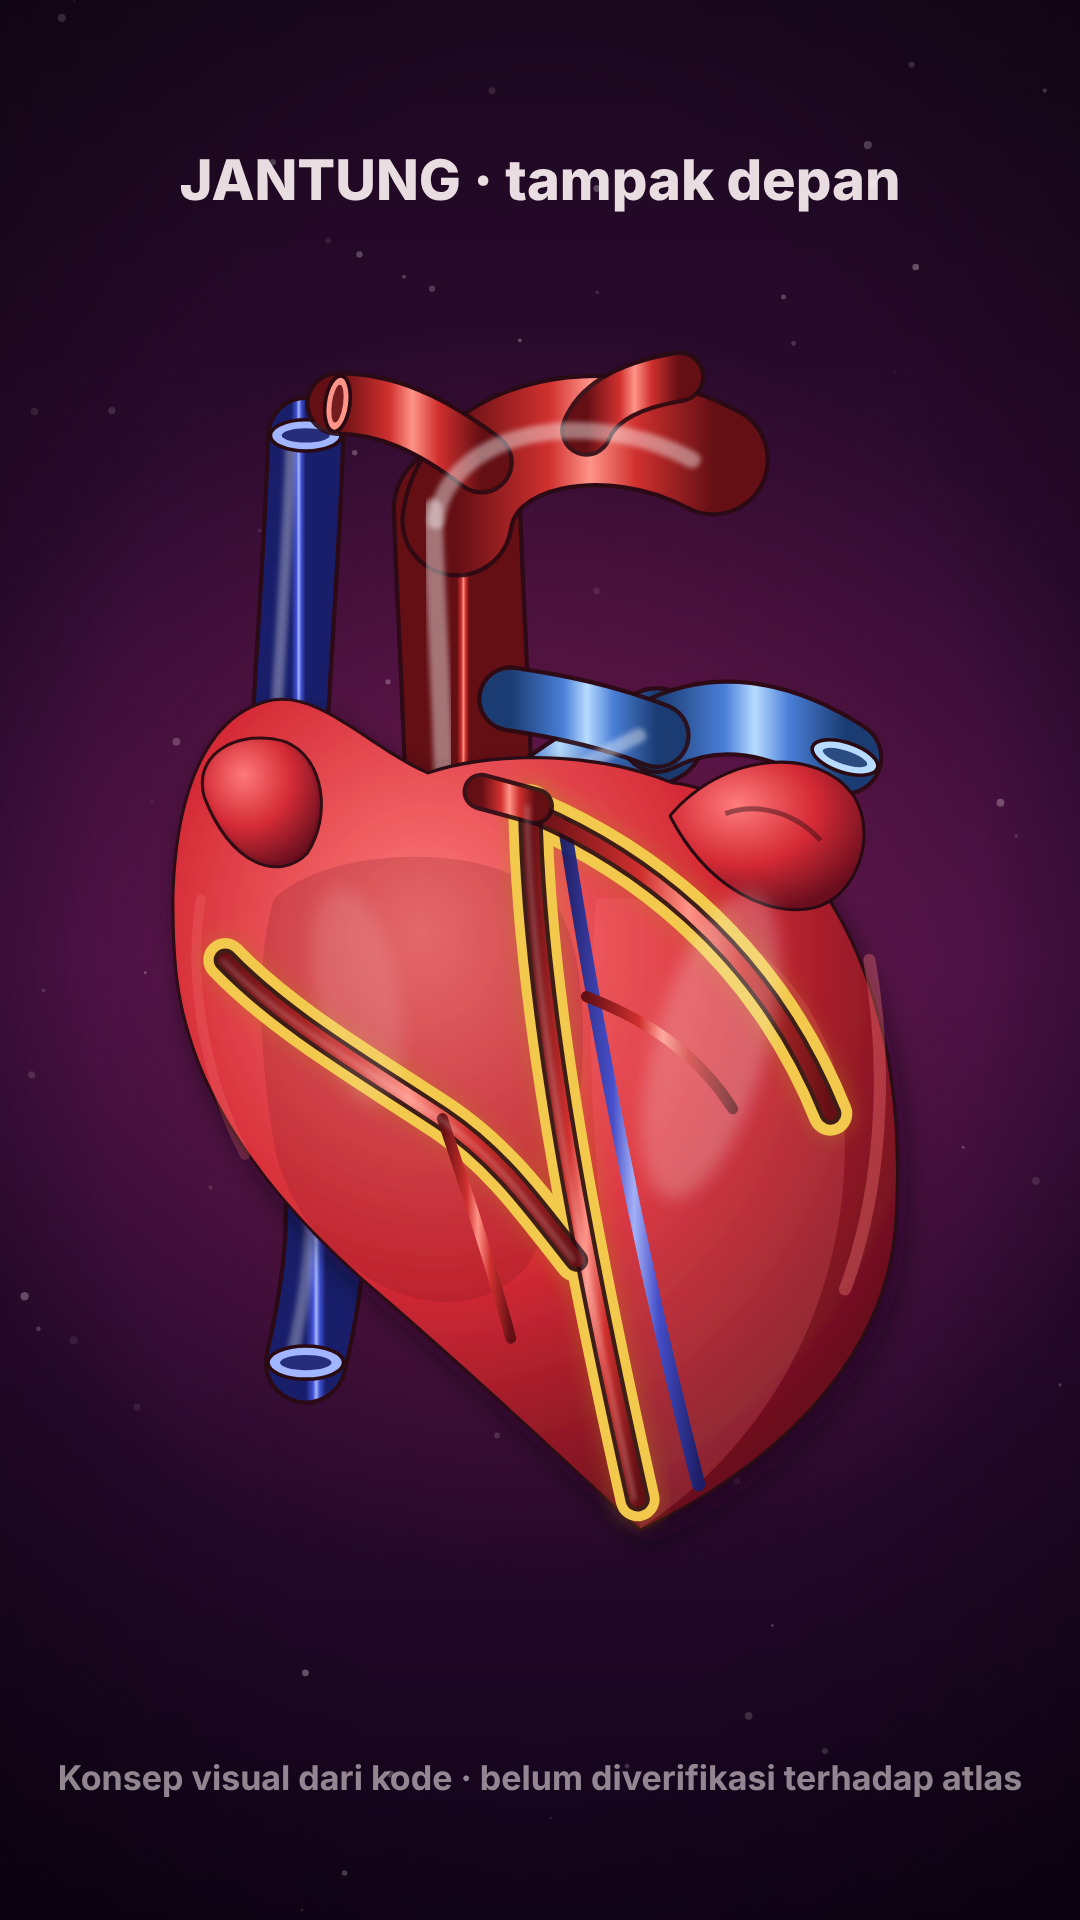
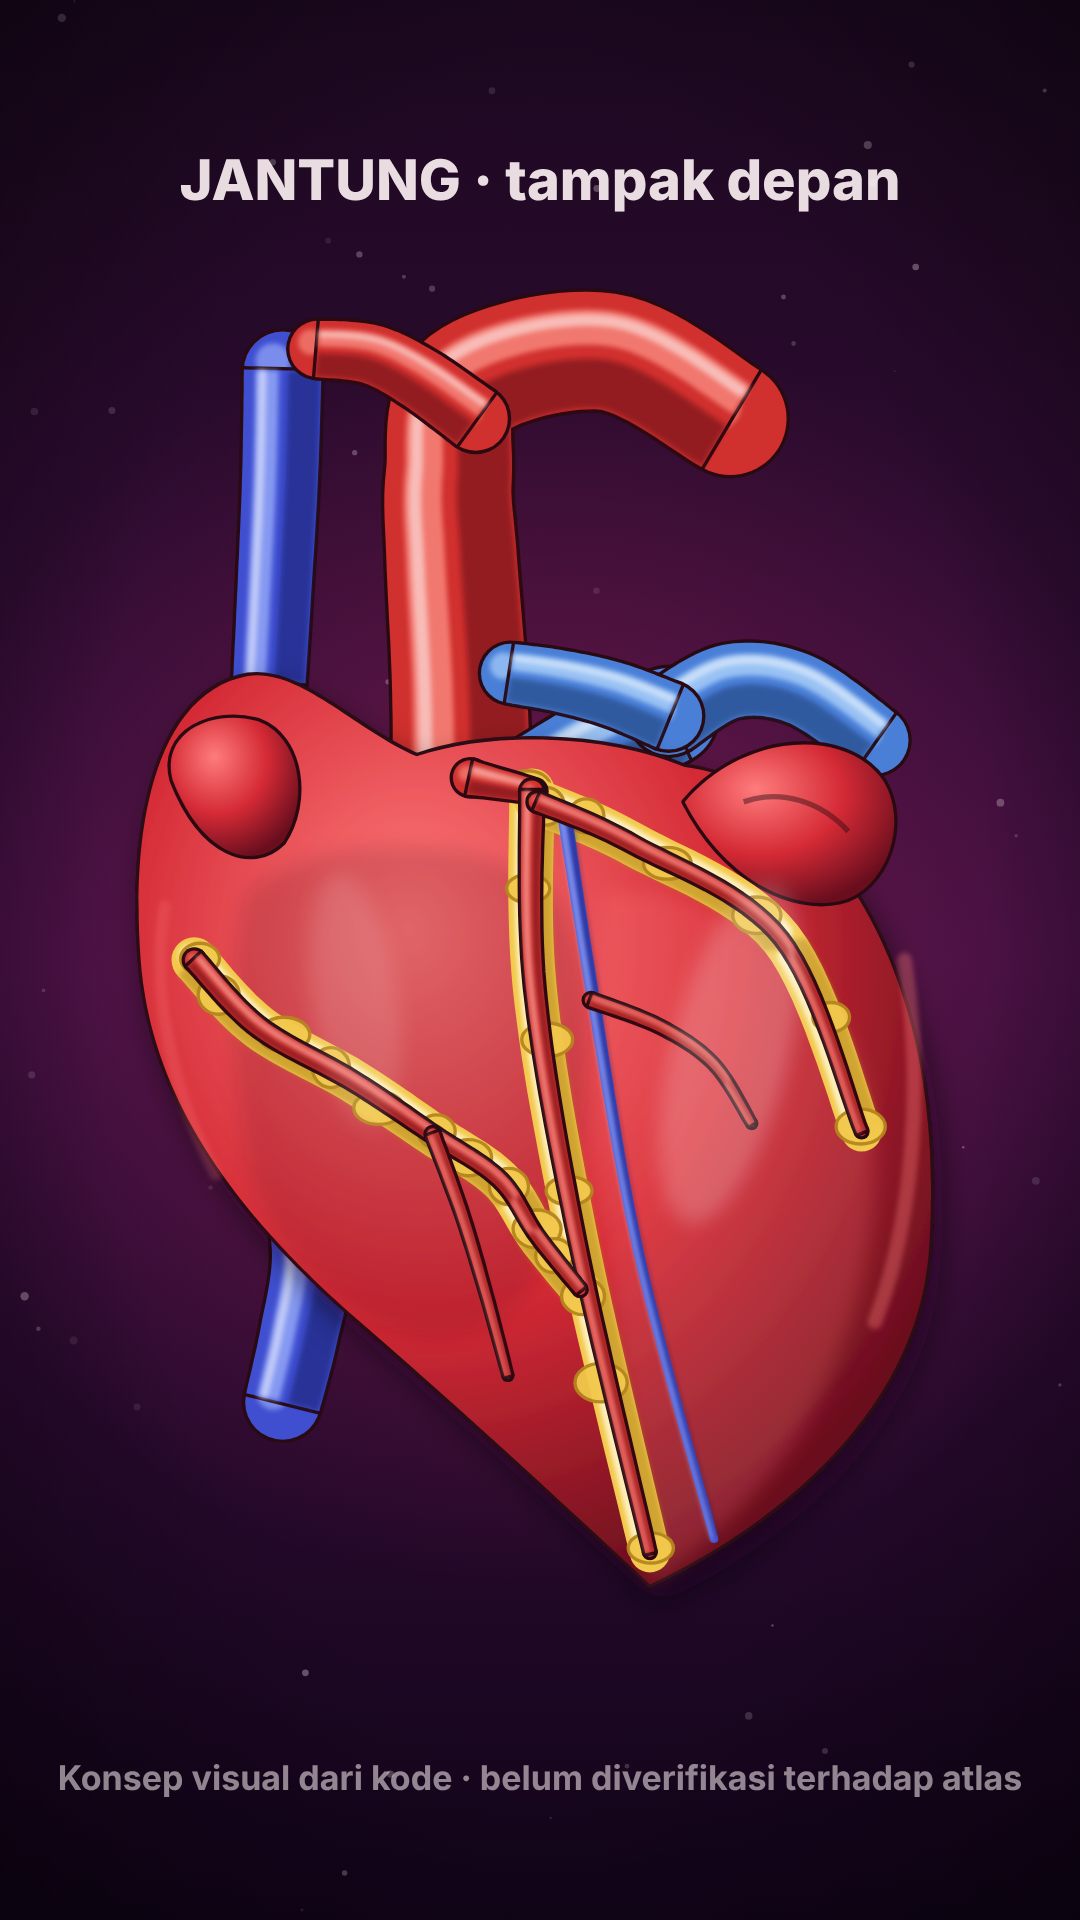
Jantung v4: pembuluh sebagai pita meruncing dengan volume, ujung membulat, jantung lebih besar; README dengan catatan evaluasi
Claude-Session: https://claude.ai/code/session_01MKx1UyJYZiX8AAtpyrtK5D

Changed region(s): [[0.1222, 0.125, 0.8861, 0.8438]]

diff --git a/brand/anatomi-visual/README.md b/brand/anatomi-visual/README.md
@@ -28,6 +28,8 @@ Warna tidak dipaksa sama antarorgan. Setiap organ punya `base`, `light`, `dark` 
 - v2: latar ungu-magenta, kilau, gradien tabung, gigi dengan dua akar, koroner dan lemak diatur ulang.
 - v3 (saat ini): jantung dengan siluet membulat, lemak kuning di alur (dibuat terlihat di bawah koroner), koroner kiri (LM -> LAD + sirkumfleks) dan kanan (RCA) sesuai sumber di bawah, cabang acak dihapus; gigi molar bawah dua akar dengan dua saluran di akar mesial dan satu di distal, tulang berlubang tidak seragam, gusi dengan tepi bebas.
 
+- v4 (jantung saja, saat ini): pembuluh dibuat sebagai pita meruncing (`ribbon` di `style.mjs`) dengan tiga lapis volume dan ujung membulat; aorta, arteri paru, vena kava disatukan dengan pangkal di badan; jantung diperbesar di frame; lemak sebagai pita dengan lobulus; koroner tetap hanya jalur utama. Evaluasi: pembuluh sudah lebih berdimensi, tetapi siluet badan masih terlalu kaku dan lobus atrium kanan belum seperti acuan. Keterbatasan utama ada di pendekatan path tulis tangan: sulit mencapai bentuk organik seperti acuan.
+
 ## Sumber anatomi yang diperiksa
 Hanya ringkasan hasil pencarian web (bukan halaman lengkap yang saya buka):
 - Jalur arteri koroner: asal LM dari sinus aorta kiri, bercabang ke LAD dan sirkumfleks; RCA dari sinus aorta kanan. Ringkasan dari Frontiers in Cardiovascular Medicine (https://www.frontiersin.org/articles/10.3389/fcvm.2021.649855/full), Radiology Assistant (https://radiologyassistant.nl/cardiovascular/anatomy/coronary-anatomy-and-anomalies), dan StatPearls (https://ncbi.nlm.nih.gov/books/NBK482375).
